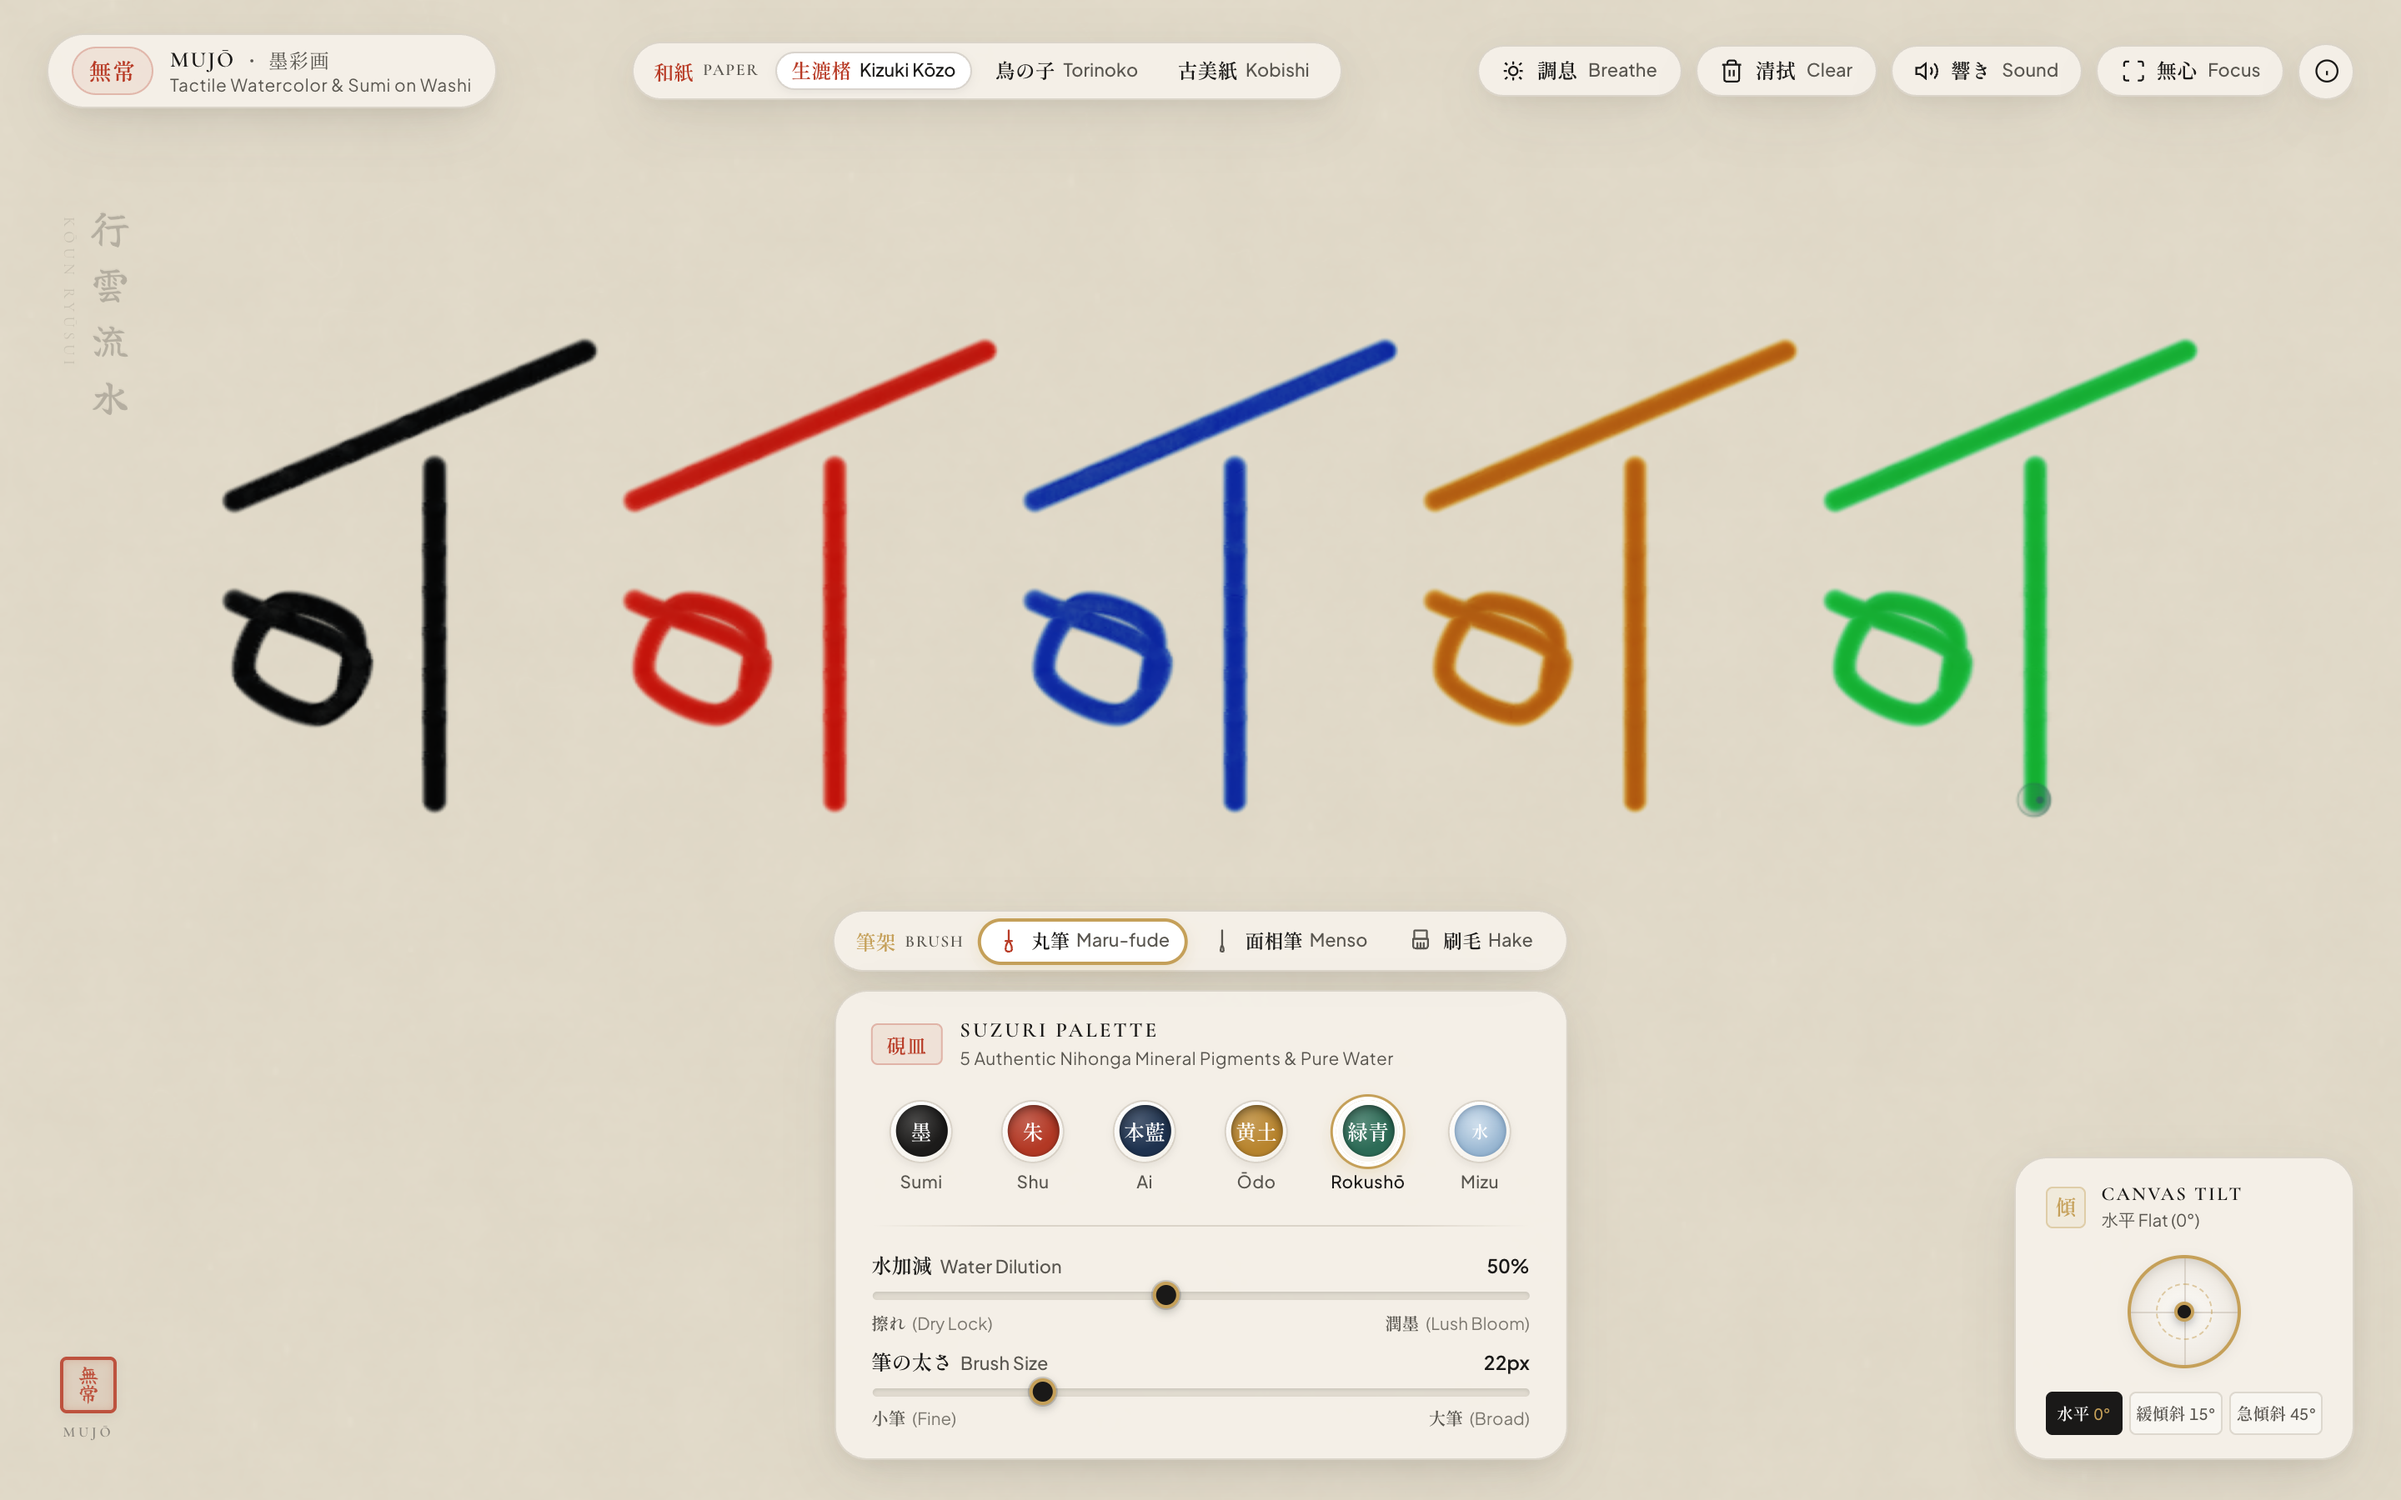
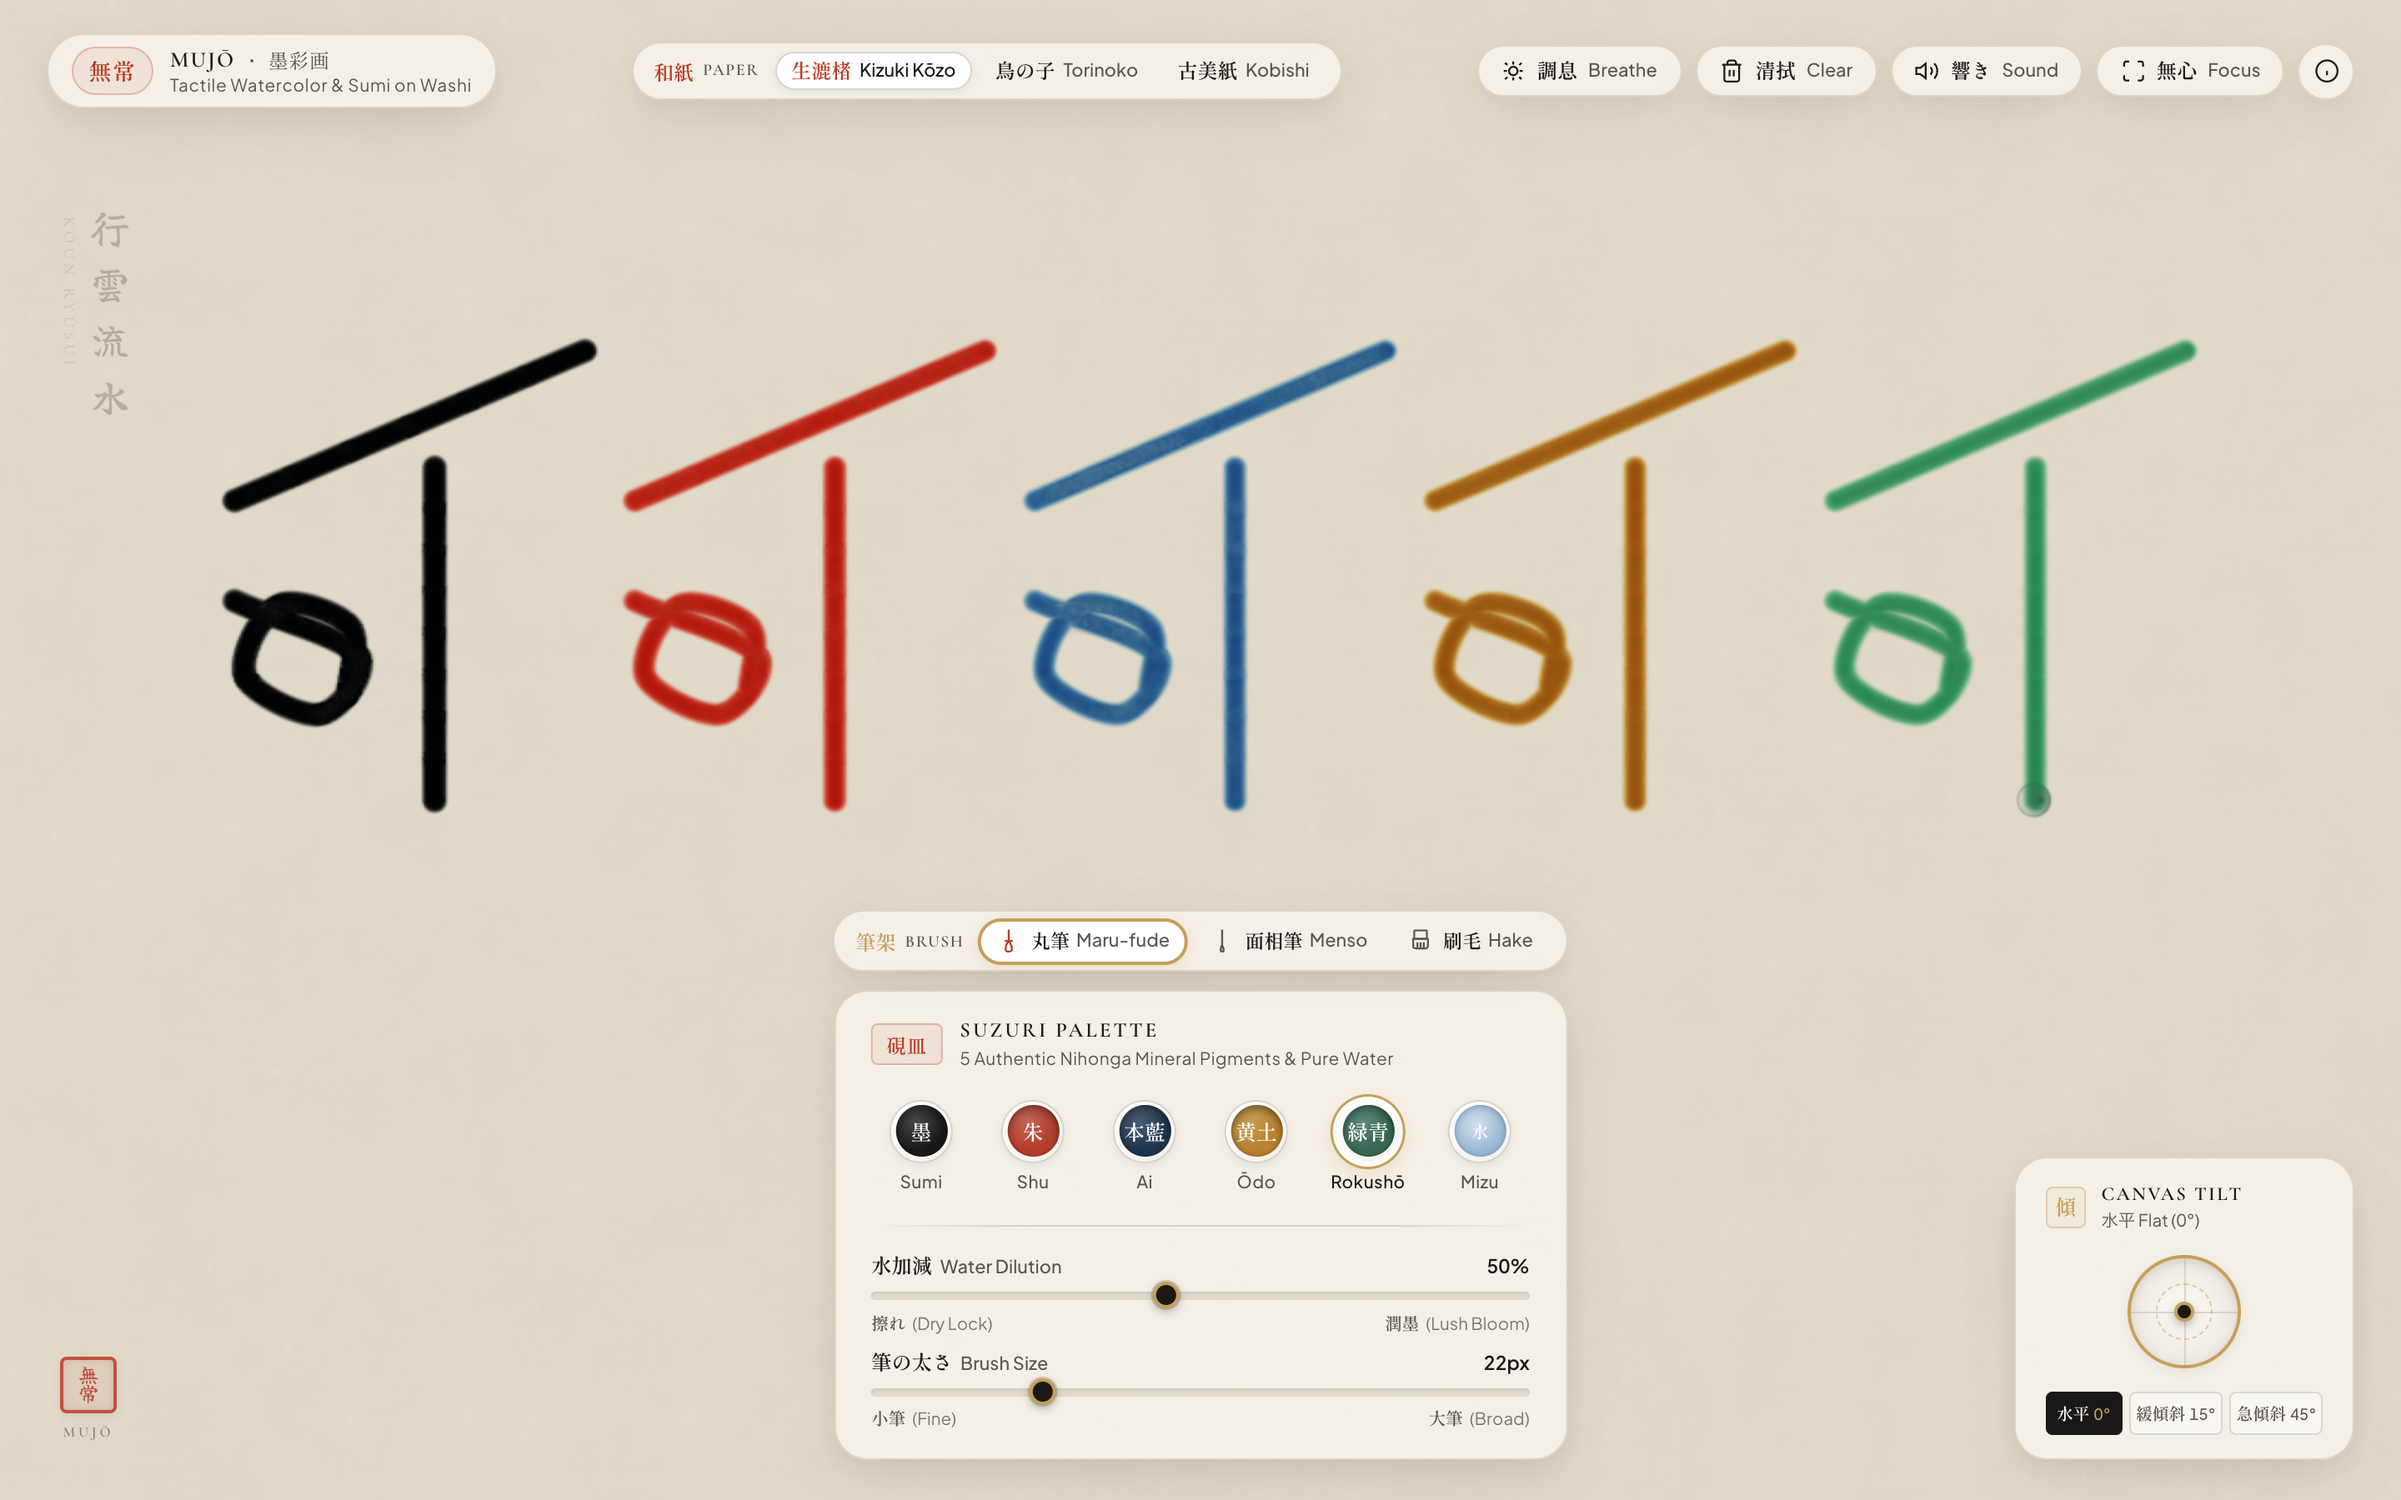
fix(simulation): restore organic fibrous bleeding, earthy mineral Nihonga palettes, and clean sub-pixel antialiased edges

diff --git a/src/ui/InkstonePalette.ts b/src/ui/InkstonePalette.ts
@@ -18,7 +18,7 @@ export const TRADITIONAL_PIGMENTS: PigmentInfo[] = [
     name: 'Sumi',
     kanji: '墨',
     sub: 'Pine Soot Black',
-    colorHex: '#1c1b1a',
+    colorHex: '#1a1918',
     ringColor: '#3d3b38',
     description: 'Carbon pine soot ink (松煙墨) — Velvety deep matte charcoal'
   },
@@ -27,8 +27,8 @@ export const TRADITIONAL_PIGMENTS: PigmentInfo[] = [
     name: 'Shu',
     kanji: '朱',
     sub: 'Cinnabar Vermilion',
-    colorHex: '#b33824',
-    ringColor: '#d64c33',
+    colorHex: '#b53d2b',
+    ringColor: '#d64e37',
     description: 'Natural cinnabar mineral (本朱) — Warm organic vermilion'
   },
   {
@@ -36,17 +36,17 @@ export const TRADITIONAL_PIGMENTS: PigmentInfo[] = [
     name: 'Ai',
     kanji: '本藍',
     sub: 'Fermented Indigo',
-    colorHex: '#1e324f',
-    ringColor: '#304c73',
-    description: 'Botanical fermented indigo (本藍) — Deep oceanic blue wash'
+    colorHex: '#1e354e',
+    ringColor: '#2d4d6e',
+    description: 'Botanical fermented indigo (本藍) — Deep slate-navy wash'
   },
   {
     id: 3,
     name: 'Ōdo',
     kanji: '黄土',
     sub: 'Raw Yellow Ochre',
-    colorHex: '#b8842d',
-    ringColor: '#d49d3d',
+    colorHex: '#b8822e',
+    ringColor: '#d49b3c',
     description: 'Natural yellow ochre earth clay (天然黄土) — Warm amber granulation'
   },
   {
@@ -54,9 +54,9 @@ export const TRADITIONAL_PIGMENTS: PigmentInfo[] = [
     name: 'Rokushō',
     kanji: '緑青',
     sub: 'Malachite Verdigris',
-    colorHex: '#2c6b56',
-    ringColor: '#3d8c72',
-    description: 'Crushed malachite copper patina (天然緑青) — Antique mineral green'
+    colorHex: '#366854',
+    ringColor: '#4d8770',
+    description: 'Crushed malachite copper patina (天然緑青) — Earthy celadon sage'
   },
   {
     id: 5,

diff --git a/src/simulation/UniformsManager.ts b/src/simulation/UniformsManager.ts
@@ -54,9 +54,9 @@ export class UniformsManager {
     evaporationRate: 0.012,
     coffeeRingFlux: 0.75,
     pinningThreshold: 0.10,
-    zenFadeRate: 0.0035, // gentle ~4-5 minute fade
+    zenFadeRate: 0.0, // Permanent strokes by default (no automatic decay)
     omegaRelaxation: 0.85,
-    breatheActive: false,
+    breatheActive: true,
     clearCanvasActive: false,
     gravity: [0.0, 0.0],
     paperType: 0, // Raw Mulberry (Kōzo) default
